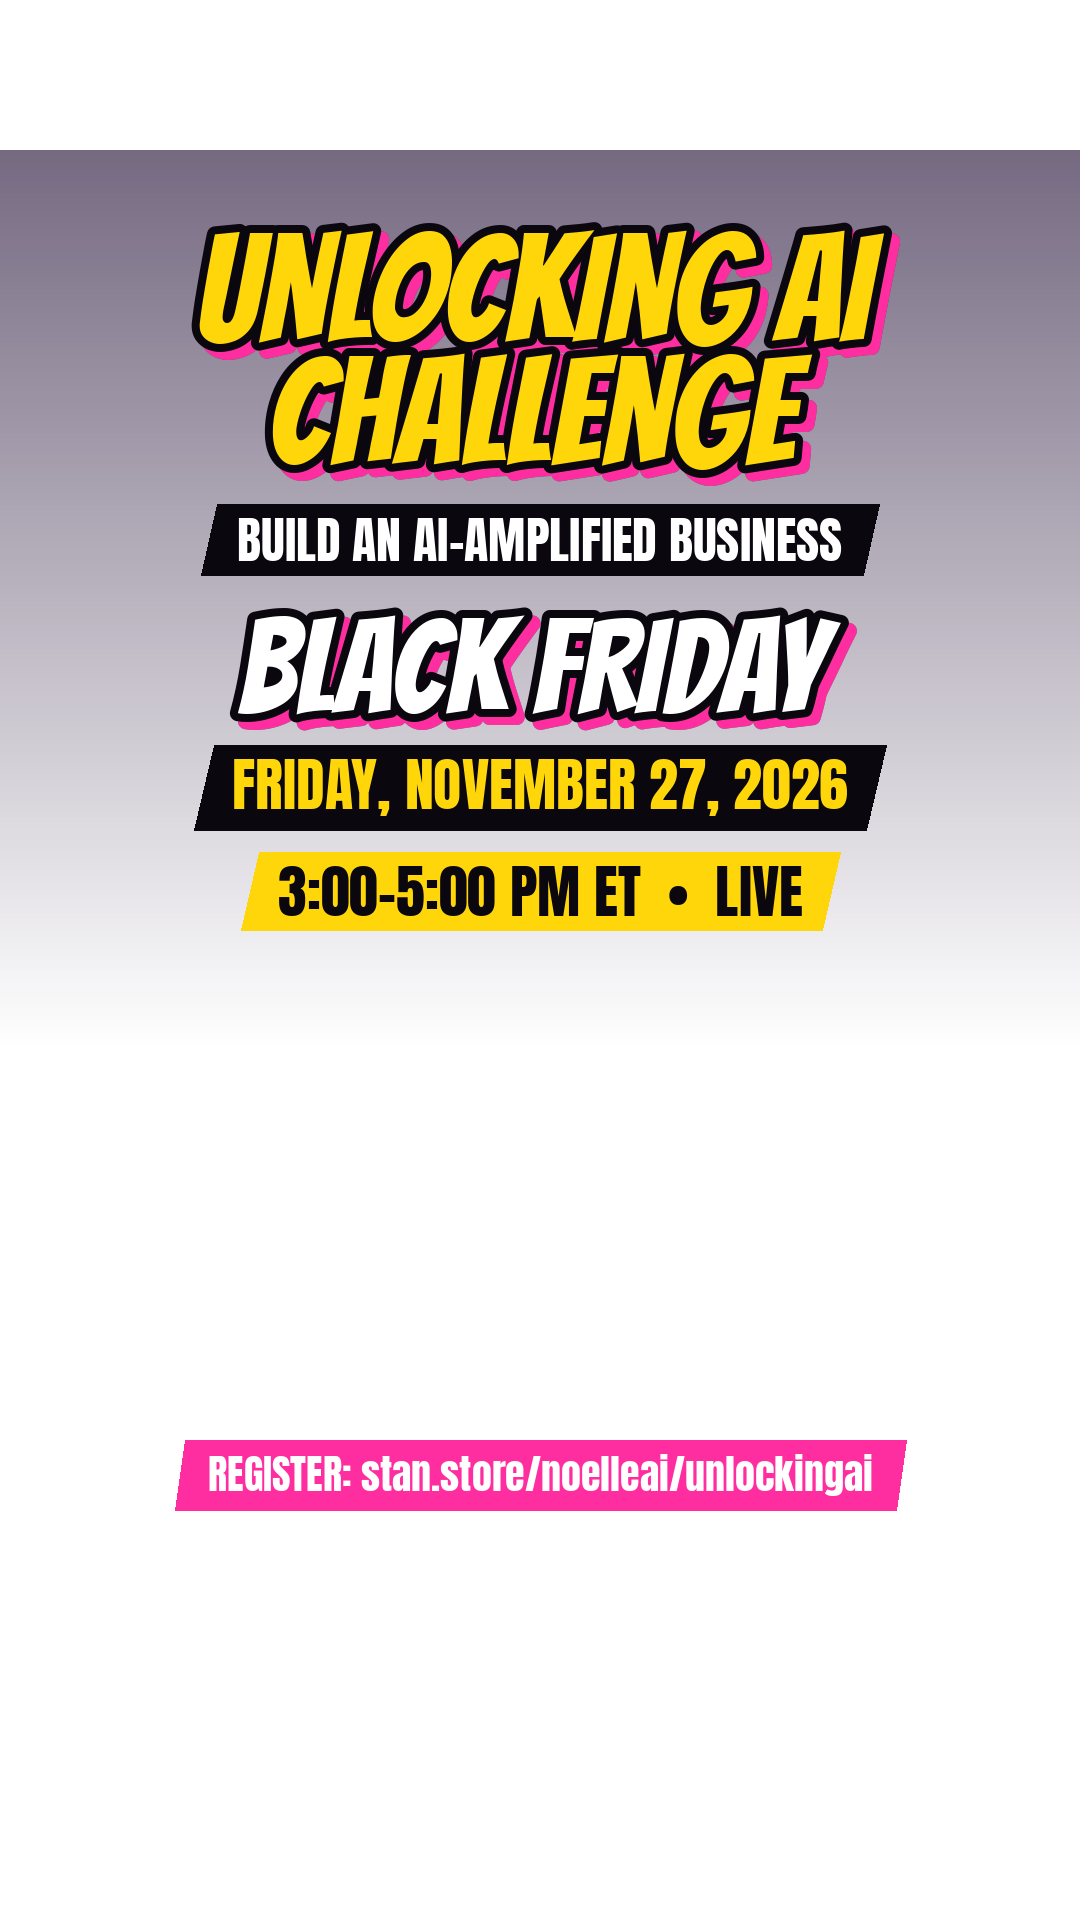
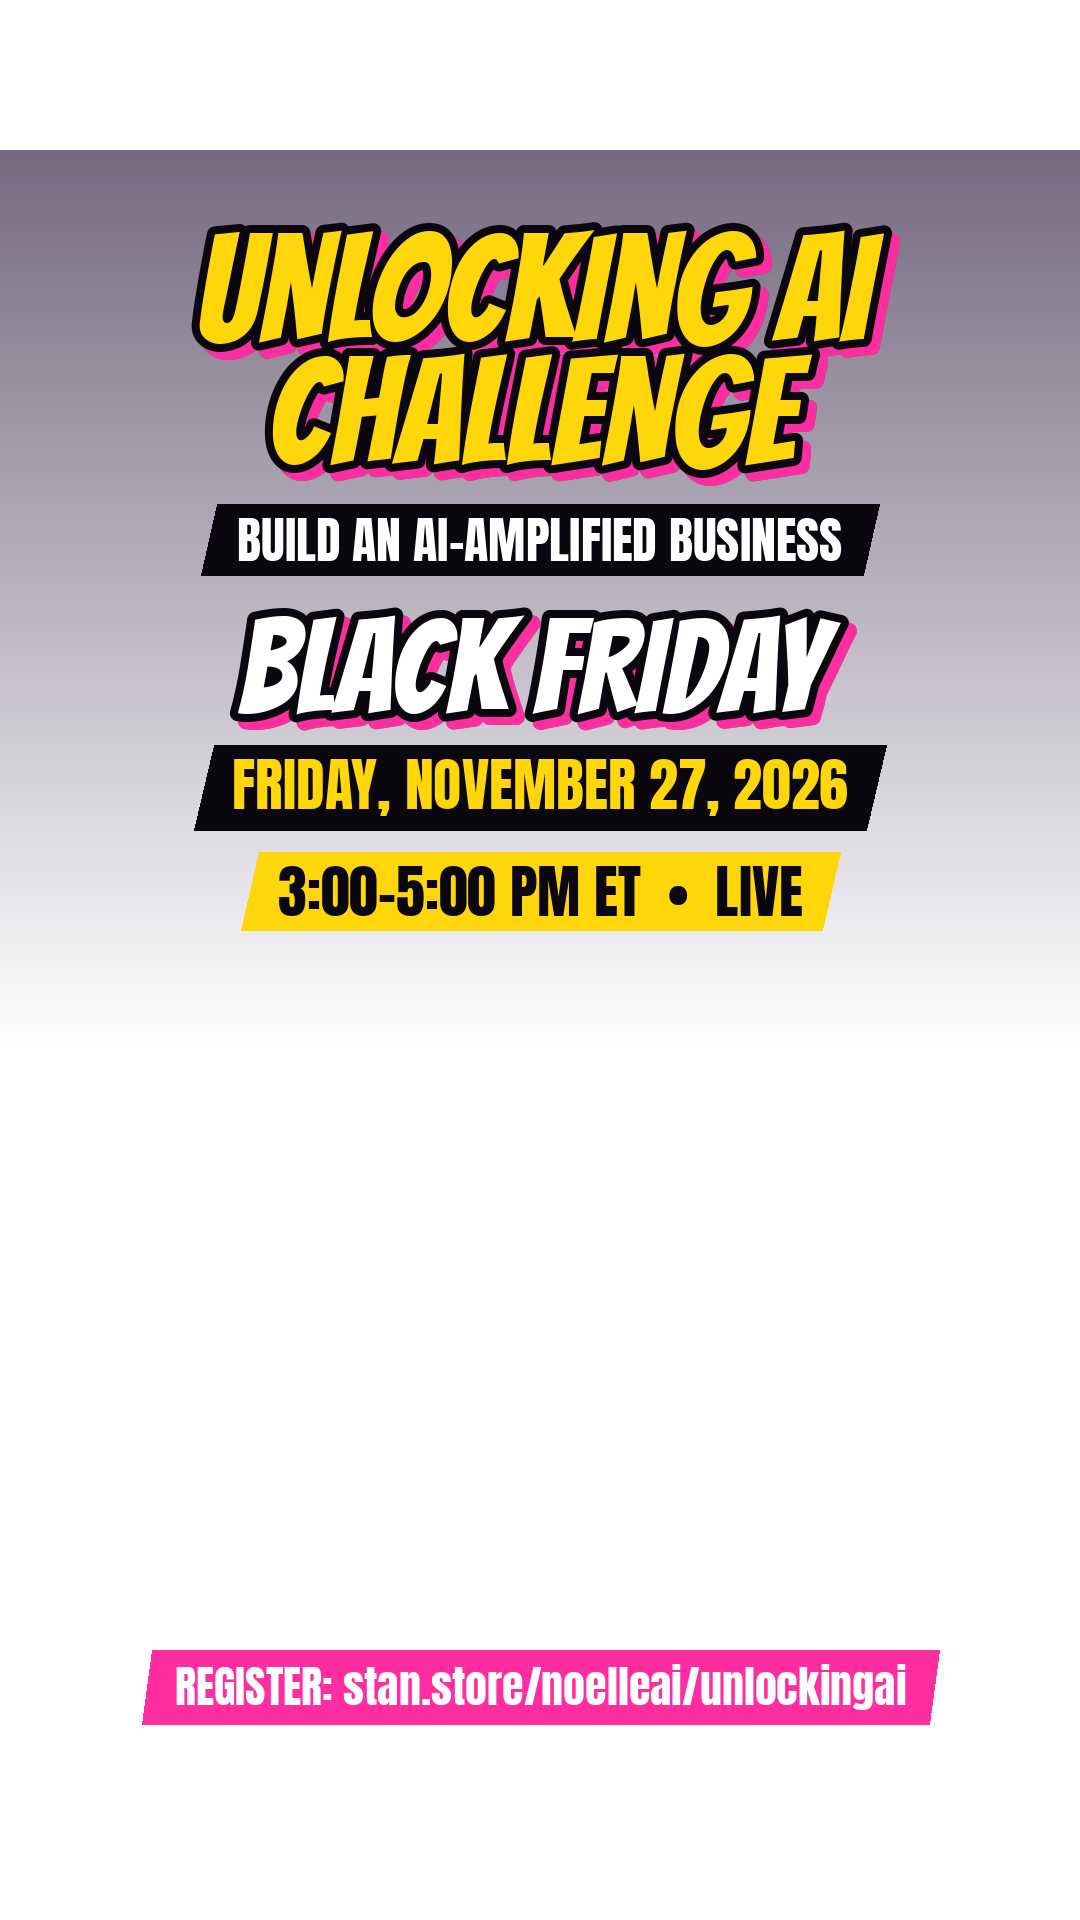
EP01 v3 plan: lip sync budget, new ending + BBY TIGR cutaway, register link moved below car
Claude-Session: https://claude.ai/code/session_01Qa5QbNCaa6ypvEwEXEt5u1

Changed region(s): [[0.1222, 0.8438, 0.8861, 0.9062], [0.1528, 0.75, 0.8556, 0.8125]]

diff --git a/video-projects/unlocking-ai-miami-takeover/scripts/build_overlays.py b/video-projects/unlocking-ai-miami-takeover/scripts/build_overlays.py
@@ -67,7 +67,7 @@ def endcard(m, out):
     y = label(img, W // 2, y, f"{l[4]}  •  {l[5]}", font(ANTON, 58), BLACK, bg=YELLOW)      # 3:00-5:00 PM ET • LIVE
     # registration pill, above bottom UI safe zone
     url = m["end_card"]["registration"]
-    label(img, W // 2, 1440, "REGISTER: " + url, font(ANTON, 40), WHITE, bg=PINK, skew=-0.08)
+    label(img, W // 2, 1650, "REGISTER: " + url, font(ANTON, 44), WHITE, bg=PINK, skew=-0.08)
     img.save(out)
 
 

diff --git a/video-projects/unlocking-ai-miami-takeover/manifests/ep01-v3-plan.md b/video-projects/unlocking-ai-miami-takeover/manifests/ep01-v3-plan.md
@@ -1,0 +1,46 @@
+# EP01 v3 Plan: lip sync, new ending, plate cutaway
+
+Balance before v3: **~233.7 credits**. Voices are approved as is (Sloane / Marcus / Emily).
+
+## 1. Lip sync (Sync Lipsync 3, ~3.6 credits/sec)
+| Shot | Speaker | Line | Clip | Est. |
+|---|---|---|---|---|
+| 05 | Noelle | "Phones ringing? That's money walking out." | 3s | 10.8 |
+| 06 | Owner | "I can't keep up!" | 2s | 7.2 |
+| 07 | Noelle | "Relax. I made you something. Dial this." | 3s | 10.8 |
+| 09 | Owner | "Wait… that's AI? How do I get it?" | 4s | 14.4 |
+| | | | **Subtotal** | **43.2** |
+
+- **Not synced:** S08 is Rachel on the phone, so no face. S10–S12 are Noelle voiceover per the director's note. Her mouth is already closed in S10, and S11 has only one slight lip part.
+- **Method:** each raw clip gets an audio file trimmed to that clip with the line at its exact on-screen offset. Lip sync runs on the raw clip before overlays, then the episode re-assembles.
+- **Risk:** sync models are tuned on real faces, so cel-shaded mouths may soften. To control it, run **S05 first** (10.8 credits) and review before the other three.
+
+## 2. New ending from the new reference image (`S13B_user_rear_plate.png`)
+One continuous grok clip, **6s** (27.0 credits). Noelle pushes off the car, walks to the driver's door, ducks low and sits, the door shuts, and the car pulls away into the distance.
+- The prompt locks the roofline: she ducks fully below the roof and her head is never above it. The plate cutaway hides the moment she settles into the seat, which is where take 2 failed.
+- This replaces S13 (take 2, head through roof) **and** S14 (the old drive-off with the duplicate car).
+
+## 3. Shot 14A: plate cutaway
+Free 9:16 crop of the new image centered on **BBY TIGR**, with Noelle outside the crop. A **2s** grok clip (9.0 credits): the car dips and rebounds on its suspension as her weight settles in, the exhaust idles, and the tail lights glow.
+
+## 4. New timeline for the last 5 seconds (total stays 32.0s)
+To free a second, S01 is trimmed 2.6→2.2s and S03/S04 1.8→1.5s each. Dialogue and captions after S04 shift 1.0s earlier.
+
+| Time | Shot | End card |
+|---|---|---|
+| 26.0–27.3 | S12 walks out, owner with card | — |
+| 27.3–28.9 | S13 (new) walks to the door, ducks in | off, so she stays visible |
+| 28.9–29.9 | **14A plate bounce** | **ON** |
+| 29.9–32.0 | S13 continues: door shuts, drives into the distance | ON, link under the car |
+
+The register link has moved to the bottom, below the car (y≈1650). This is already rendered and free.
+
+## Budget
+| Item | Credits |
+|---|---|
+| Lip sync, 4 shots | 43.2 |
+| New S13 ending (6s) | 27.0 |
+| 14A plate bounce (2s) | 9.0 |
+| **Planned** | **79.2** |
+| Buffer: 1 ending retake + 1 lip-sync redo | ~38 |
+| **Worst case** | **~117** (leaves ~116) |
